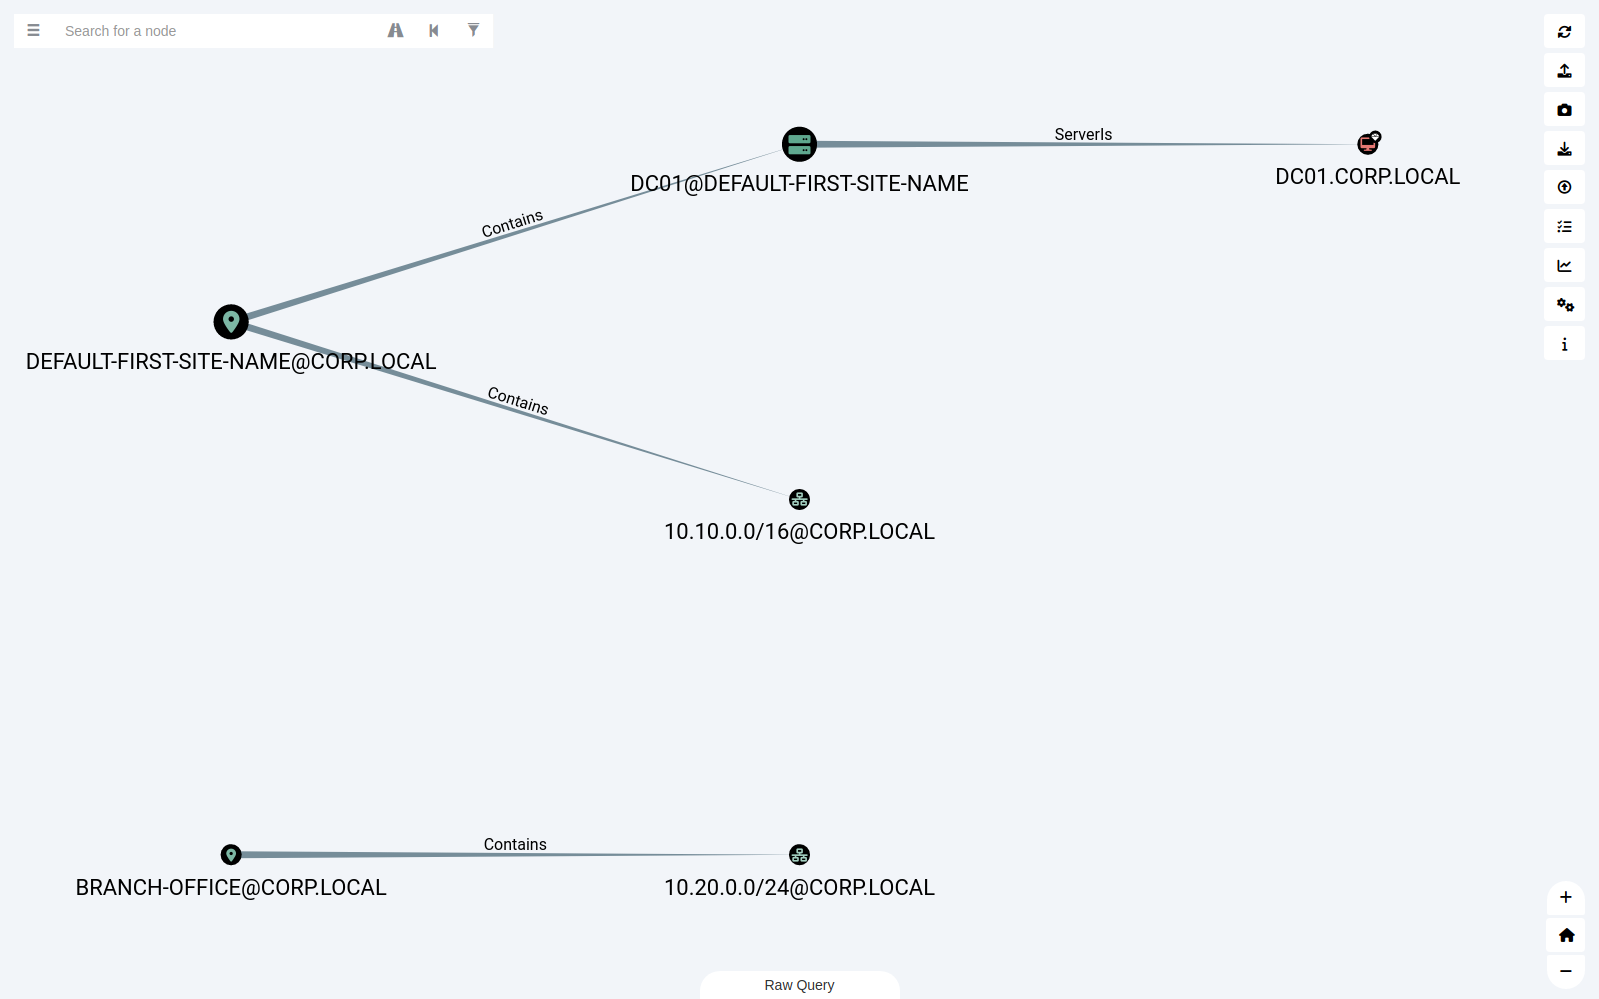
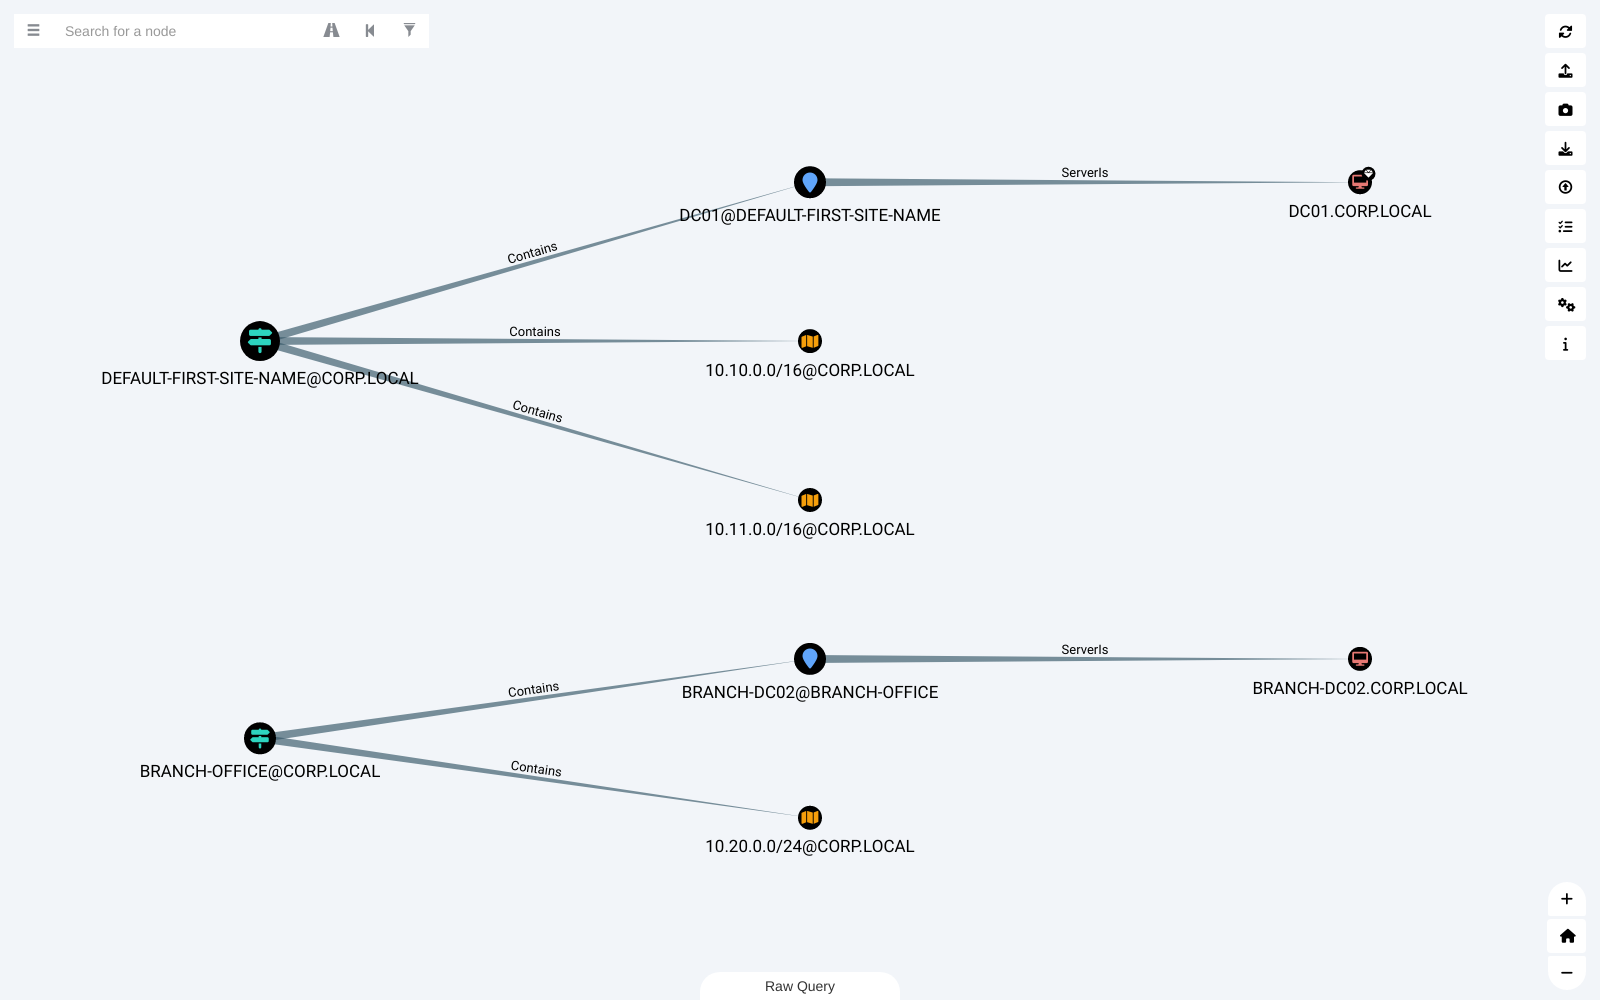
Broaden README intro, add AD Sites section and replace overlapping AD CS image

diff --git a/README.md b/README.md
@@ -1,6 +1,6 @@
-# BloodHound Legacy 4.3.1 with CE support
+# BloodHound Legacy 4.3.1, extended for CE data
 
-A fork of [BloodHound Legacy](https://github.com/SpecterOps/BloodHound-Legacy) 4.3.1 that can display and work with data collected for BloodHound Community Edition (CE): ADCS objects, local groups and the newer attack-path edges. It also adds label, image-export and filtering improvements. The stock prebuilt queries are unchanged.
+A fork of [BloodHound Legacy](https://github.com/SpecterOps/BloodHound-Legacy) 4.3.1 that reads data collected for BloodHound Community Edition (CE) and extends Legacy well beyond that: Node Info panels for AD CS (with the PKI hierarchy), AD Sites and local groups, a "Name - Type" title and a single Node Properties section on every panel, CE icons and high-value markers, ADCS attack-path expansion, edge filtering that applies to every query, PKI and Sites counts in Database Info, and report-ready PNG export with label and padding settings. The stock prebuilt queries are unchanged.
 
 The screenshots below use a small fictional `CORP.LOCAL` domain.
 
@@ -24,11 +24,17 @@ The About window also has a **Check for Updates** line. It asks GitHub whether a
 
 Every CE node kind gets CE's own icon and colour, including the ADCS kinds that Legacy drew as blank question marks: EnterpriseCA, RootCA, AIACA, NTAuthStore, CertTemplate and IssuancePolicy. Local groups and users (ADLocalGroup, ADLocalUser), the AD Sites kinds from SharpHound v2.17 (Site, SiteServer, SiteSubnet) and AZFederatedIdentityCredential are covered too. Nodes carrying CE's `Tag_Tier_Zero` or `Tag_Owned` labels keep their own icon and Node Info panel, whatever order Neo4j returns the labels in. Low detail mode uses the same colours.
 
-![ADCS objects drawn with CE icons](docs/screenshots/01-ce-icons.png)
+![An AD CS PKI hierarchy drawn with CE icons](docs/screenshots/01-ce-icons.png)
 
 ## PKI / AD CS objects in Database Info
 
 The Database Info tab counts on-prem and Azure objects but had no counts for the ADCS objects CE collects. A **PKI / AD CS OBJECTS** section now sits right after **On-Prem Objects**, counting Certificate Templates, Enterprise CAs, Root CAs, AIA CAs, NTAuth Stores and Issuance Policies. On a database with no ADCS data collected the counts are simply zero.
+
+## AD Sites
+
+AD Sites collected by SharpHound v2.17 (Site, SiteServer and SiteSubnet) draw with CE's icons and open their own Node Info panels. A Site shows its site servers, subnets and server computers, the GPOs linked to it (and enforced) with who controls them, and inbound control rights, including WriteGPLink. A SiteServer shows its site and the computer it maps to (ServerIs). The GPO and Computer panels gain Linked Sites and AD Site rows, and Database Info has an **AD SITES** section with the counts.
+
+![Two AD Sites with their site servers, subnets and server computers](docs/screenshots/15-sites.png)
 
 ## Edge filtering for every edge and every query
 
